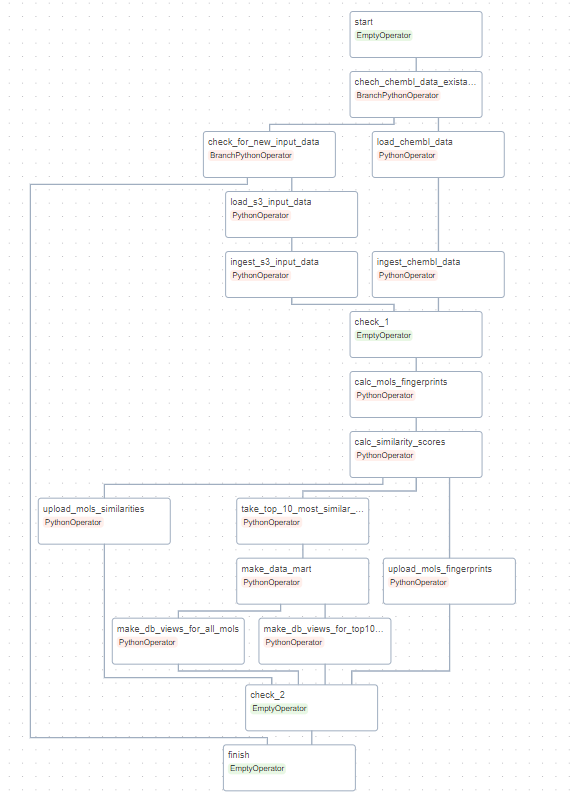
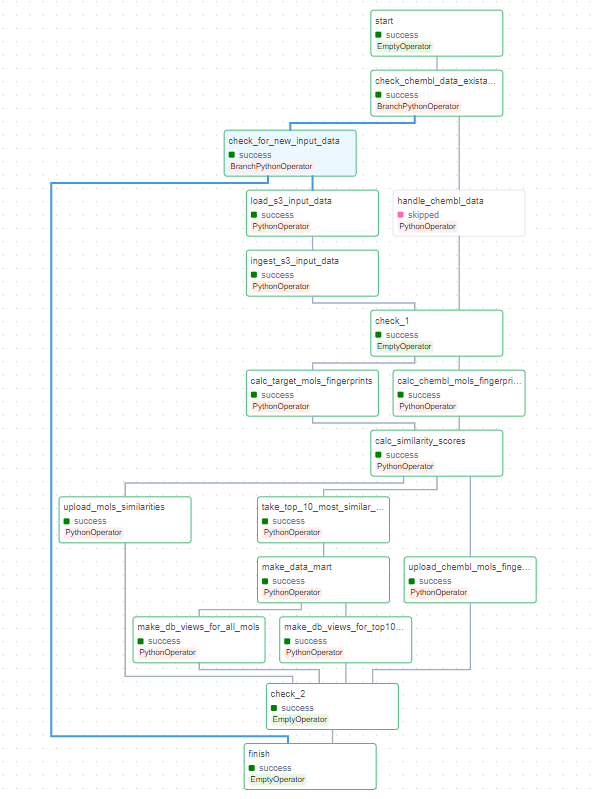
Feat Added wrong mols names handling

Changed region(s): [[0.0591, 0.0, 0.9165, 0.9912]]

diff --git a/dags/scripts/load_and_ingest_s3_input_data.py b/dags/scripts/load_and_ingest_s3_input_data.py
@@ -1,5 +1,7 @@
 import logging
 import os
+import re
+
 import pandas as pd
 
 from airflow.hooks.S3_hook import S3Hook
@@ -10,7 +12,19 @@ from airflow.models import (
 )
 
 
-def rename_file(name: str, new_name: str) -> None:
+def _fix_name(mol_name: str) -> str:
+    # check if name correct
+    if re.search(r'^CHEMBL[0-9]+$', mol_name): 
+        return mol_name
+    # check mol name pattern CHEMBL1234
+    if re.search(r'.*[a-zA-ZäöüßÄÖÜ]{1}[0-9]+$', mol_name):  
+        num_start = re.search(r'[0-9]+', mol_name).span()[0]
+        if mol_name[num_start:].isnumeric():
+            return 'CHEMBL' + mol_name[num_start:]
+    # return None if name can not be fixed
+    return None
+
+def _rename_file(name: str, new_name: str) -> None:
     file_path = '/'.join(name.split('/')[:-1])
     new_path = f'{file_path}/{new_name}'
     os.rename(src=name, dst=new_path)
@@ -33,7 +47,7 @@ def load_s3_input_data(ti) -> None:
     input_file_names = []
     for key in list_of_input_files:
         file_name = s3_hook.download_file(key, bucket_name, path_to_download)
-        input_file_names.append(rename_file(file_name, key.split('/')[-1]))
+        input_file_names.append(_rename_file(file_name, key.split('/')[-1]))
         logging.info(f'Saved: {input_file_names[-1]}')
 
     ti.xcom_push(key='input_file_paths', value=input_file_names)
@@ -43,13 +57,28 @@ def load_s3_input_data(ti) -> None:
 def ingest_s3_input_data(ti) -> None:
     input_file_paths = ti.xcom_pull(task_ids='load_s3_input_data', key='input_file_paths')
 
+    # read data
     # files are quite small so I read them all at ones
-    df = pd.concat([pd.read_csv(path, on_bad_lines='skip', encoding='latin-1') for path in input_file_paths])
+    df_list = []
+    for f in input_file_paths:
+        try:
+            tmp_df = pd.read_csv(f, on_bad_lines='skip')
+        except UnicodeDecodeError:
+            # change encoding
+            tmp_df = pd.read_csv(f, on_bad_lines='skip', encoding='latin-1')
+
+        # change col names
+        tmp_df.columns = ['chembl_id', 'smile']
+
+        df_list.append(tmp_df)
+
+    df = pd.concat(df_list).reset_index(drop=True)
     
-    df = df.rename(
-        lambda column_name: column_name.lower().replace(' ', '_').replace('#', '_').strip('_'),
-        axis='columns'
-    )
+    # check and fix molecules names
+    df.chembl_id = df.chembl_id.apply(_fix_name)
+
+    # drop invalid names
+    df = df.dropna()
 
     logging.info('Starting ingestion into database...')
 

diff --git a/dags/scripts/upload_mols_data_to_s3.py b/dags/scripts/upload_mols_data_to_s3.py
@@ -1,4 +1,5 @@
 import logging
+import os
 
 from airflow.hooks.S3_hook import S3Hook
 from airflow.models import (
@@ -6,17 +7,25 @@ from airflow.models import (
 )
 
 
-def upload_mols_data(xcom_pull_task_id:str, xcom_pull_key: str, ti) -> None:
+def upload_mols_data(folder_name: str, xcom_pull_task_id:str, xcom_pull_key: str, del_after: bool, ti) -> None:
     
     # boto3 init
     s3_hook = S3Hook(aws_conn_id = 's3_bucket')
     bucket_name = Variable.get('bucket_name')
     output_prefix = Variable.get('output_prefix')  # ends with /
+    output_prefix = output_prefix + folder_name
 
-    fp_files_names = ti.xcom_pull(task_ids='calc_mols_fingerprints', key='fp_files_names')
+    files_names = ti.xcom_pull(task_ids=xcom_pull_task_id, key=xcom_pull_key)
+    
+    # if there is one file 
+    if not isinstance(files_names, list):
+        files_names = [files_names]
 
-    for file in fp_files_names:
+    for file in files_names:
         key = output_prefix + file[0].split('/')[-1]
         s3_hook.load_file(file, key, bucket_name)
         logging.info(f'loaded file {file} to S3 bucket {bucket_name}, key: {key}')
+        
+        if del_after:
+            os.remove(file)
 
